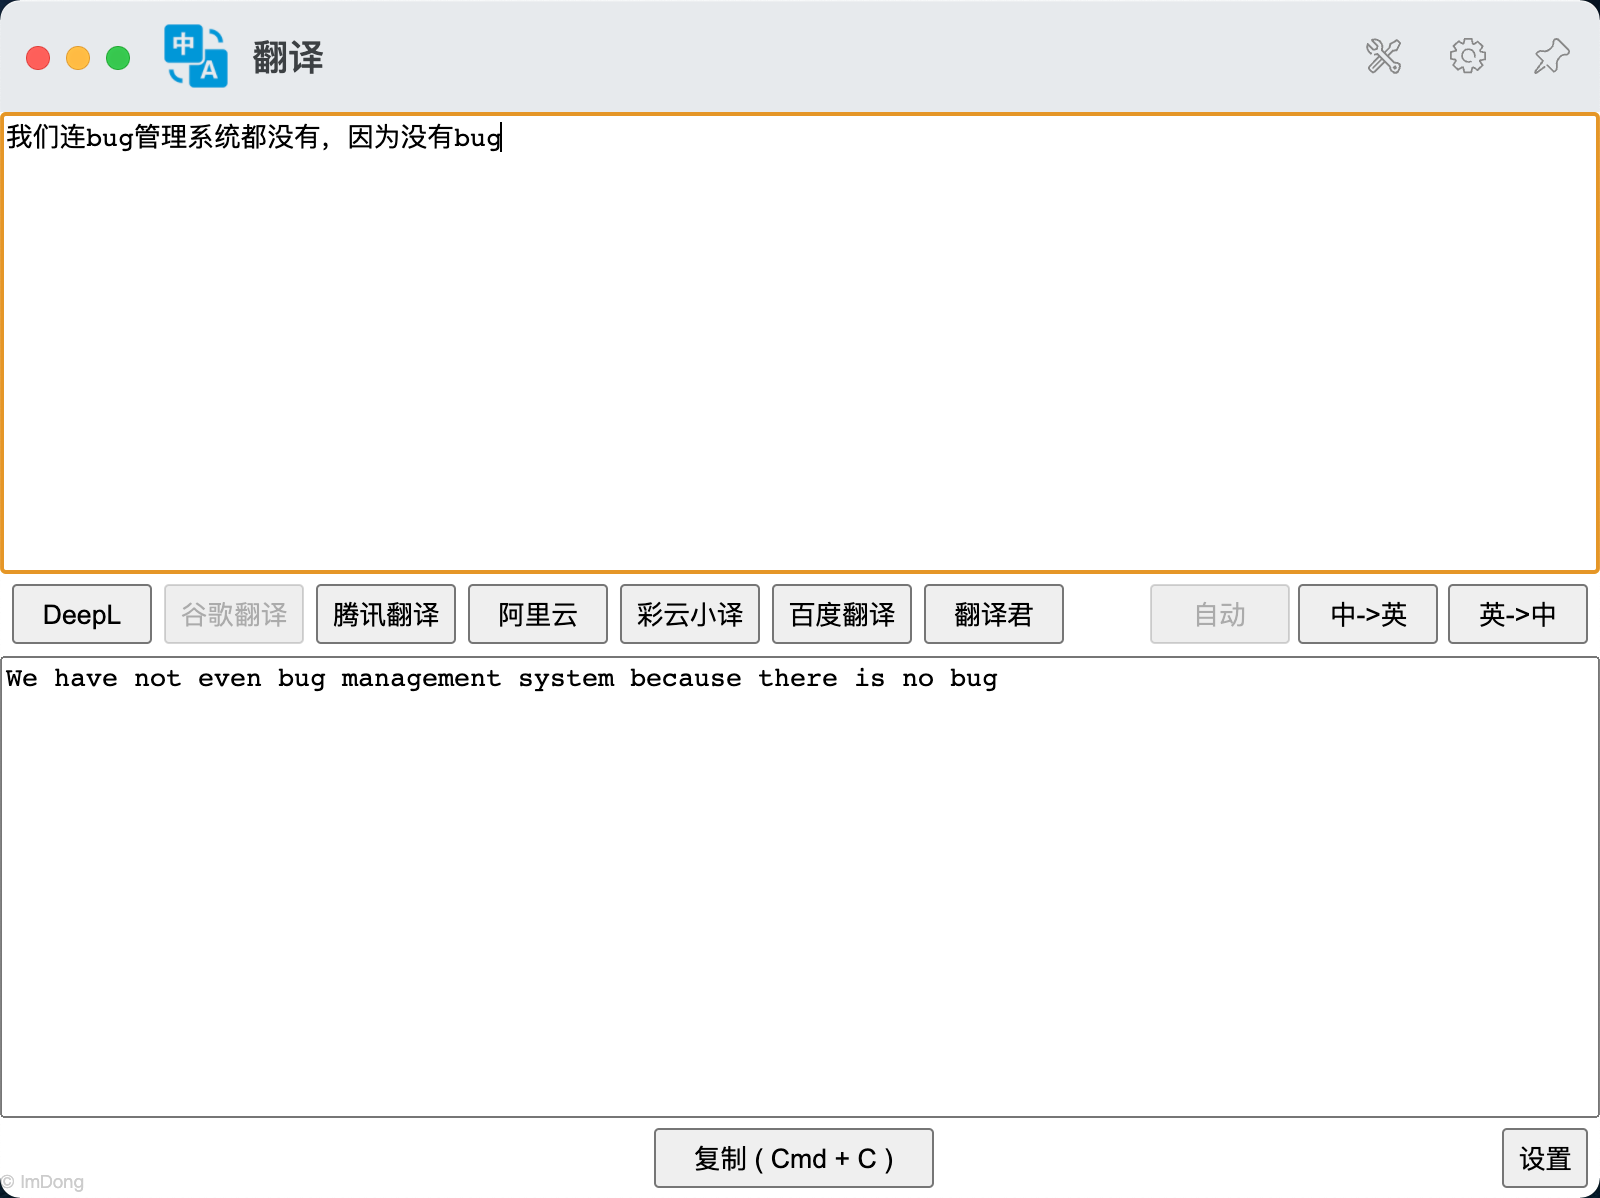
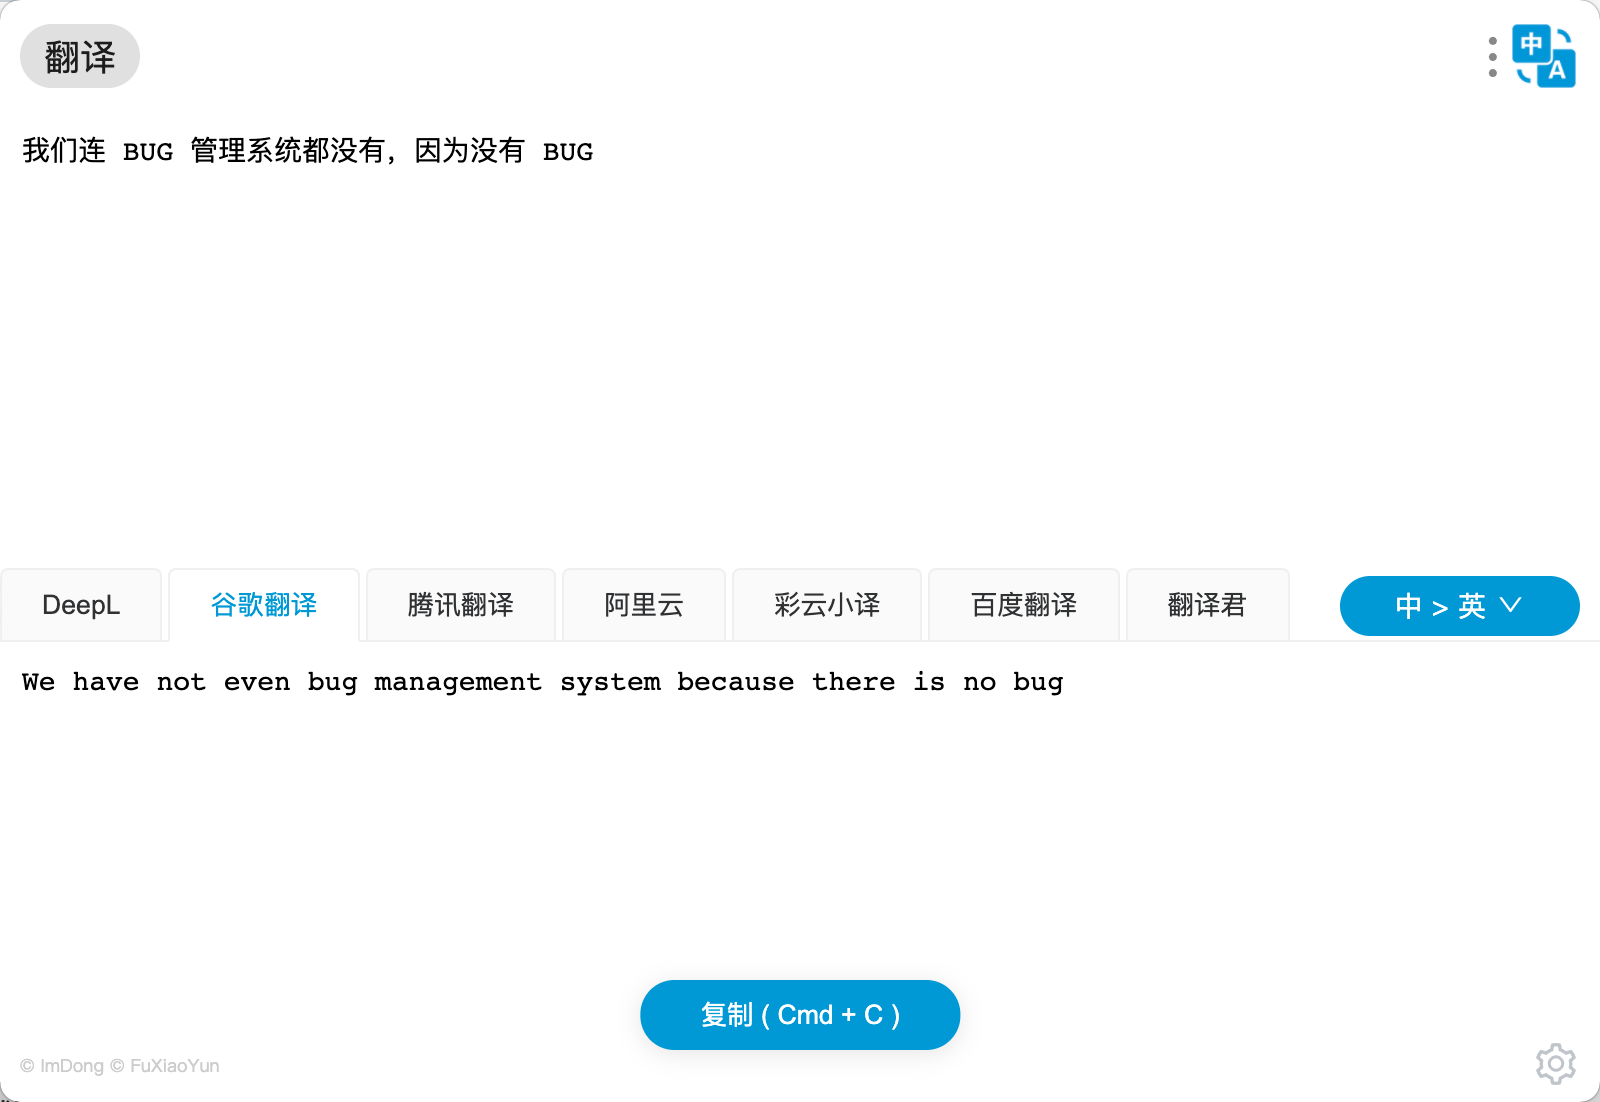
添加 api申请入口 和 新的截图

diff --git a/build/index.js b/build/index.js
@@ -8,6 +8,7 @@ let in_text = '',
     options_dom = document.getElementById('options'),
     options_body_dom = document.getElementById('options-items'),
     translate_dom = document.querySelector('.translate-mode'),
+    help_dom = document.querySelector('#help'),
     use_default = false,
     translate = new Translate(),
     config_rev = null;
@@ -161,6 +162,10 @@ if (typeof utools == 'object') {
         // 复制结果
         set_copy();
 
+        // 打开教程页面
+        help_dom.addEventListener('click', (event) => {
+            utools.shellOpenExternal(event.target.href);
+        });
     });
 }
 
@@ -309,6 +314,7 @@ function init_sdk() {
 // 更新配置到 SDK
 function updateOptionToSDK() {
     console.log('updateOptionToSDK')
+
     let sdk_list = translate.getSdk();
     for (const sdk_name in sdk_list) {
         if (typeof exports.config.options[sdk_name] == 'object') {

diff --git a/build/index.html b/build/index.html
@@ -42,6 +42,9 @@
                 <div class="bottom">
                     <button id="option-cancel" class="button">取消</button>
                     <button id="option-save" class="button">保存</button>
+
+                    <a href="https://www.qs5.org/Post/719.html?plugin-options-help" id="help"
+                        style="margin-left: 20px;">如何申请？</a>
                 </div>
             </div>
         </div>

diff --git a/build/css/style.css b/build/css/style.css
@@ -103,6 +103,7 @@ body {
 #options-body .bottom {
   text-align: center;
   margin-top: 20px;
+  margin-left: 80px;
 }
 
 .options-item {
